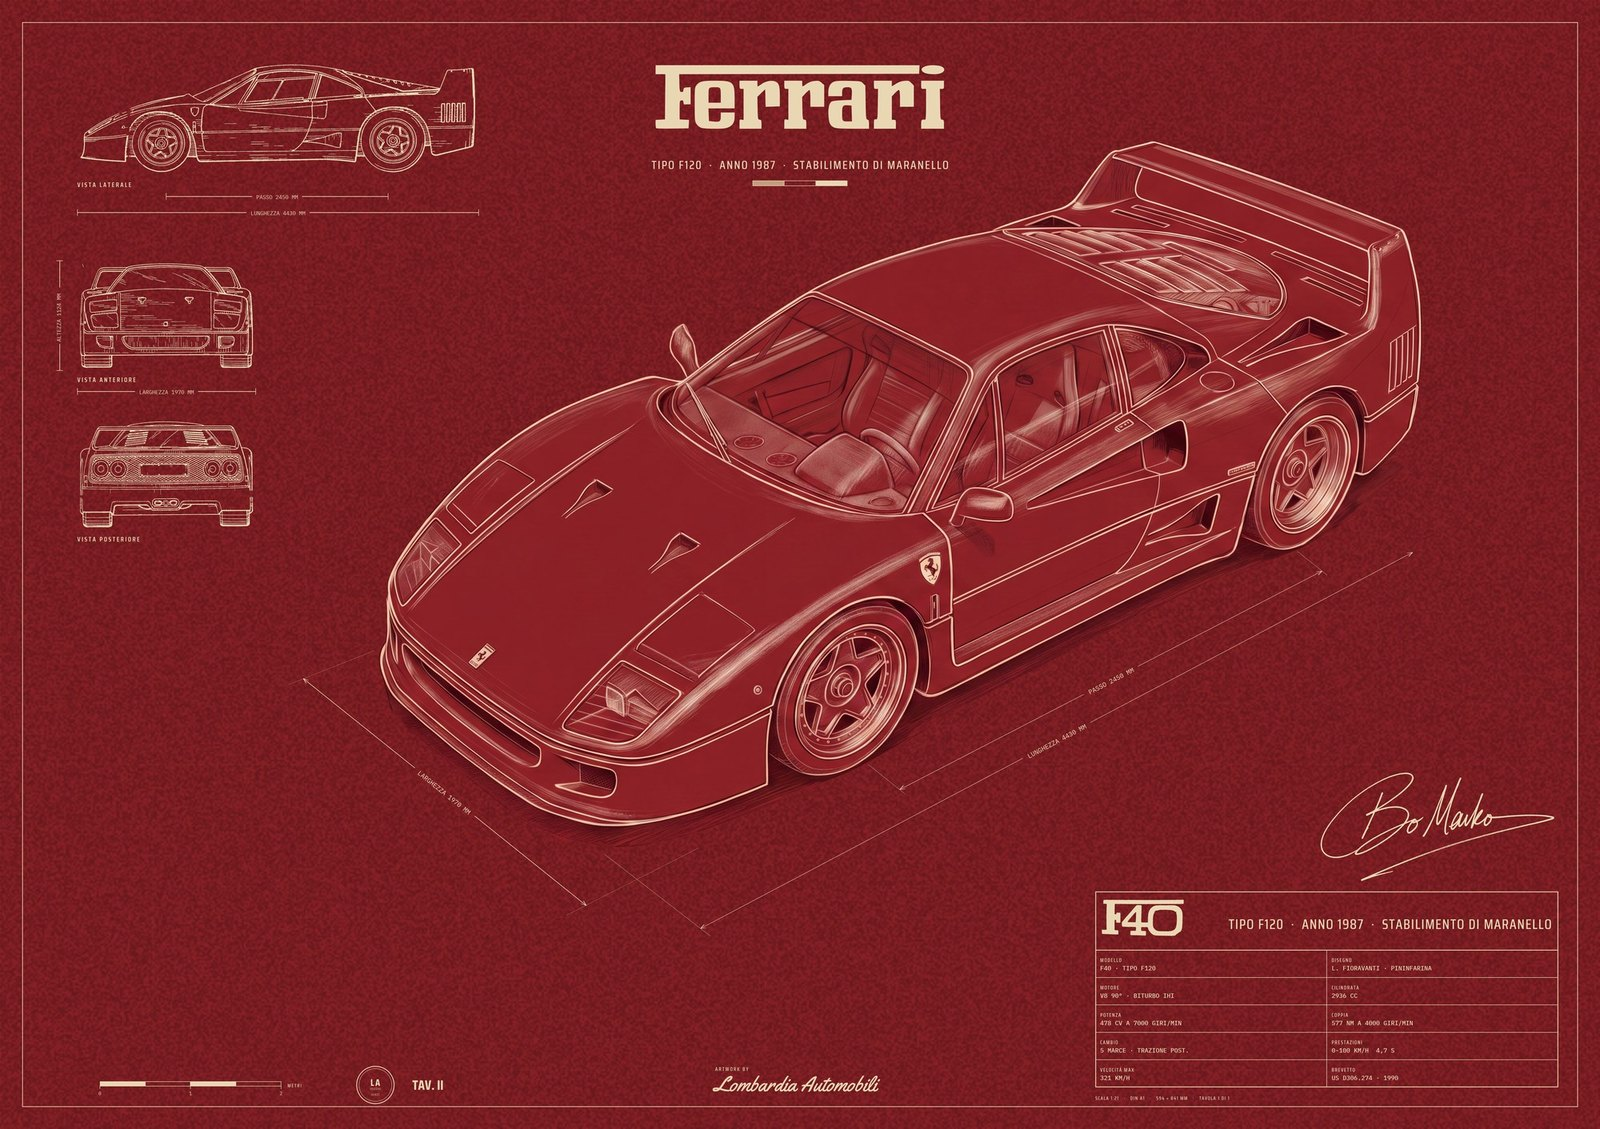
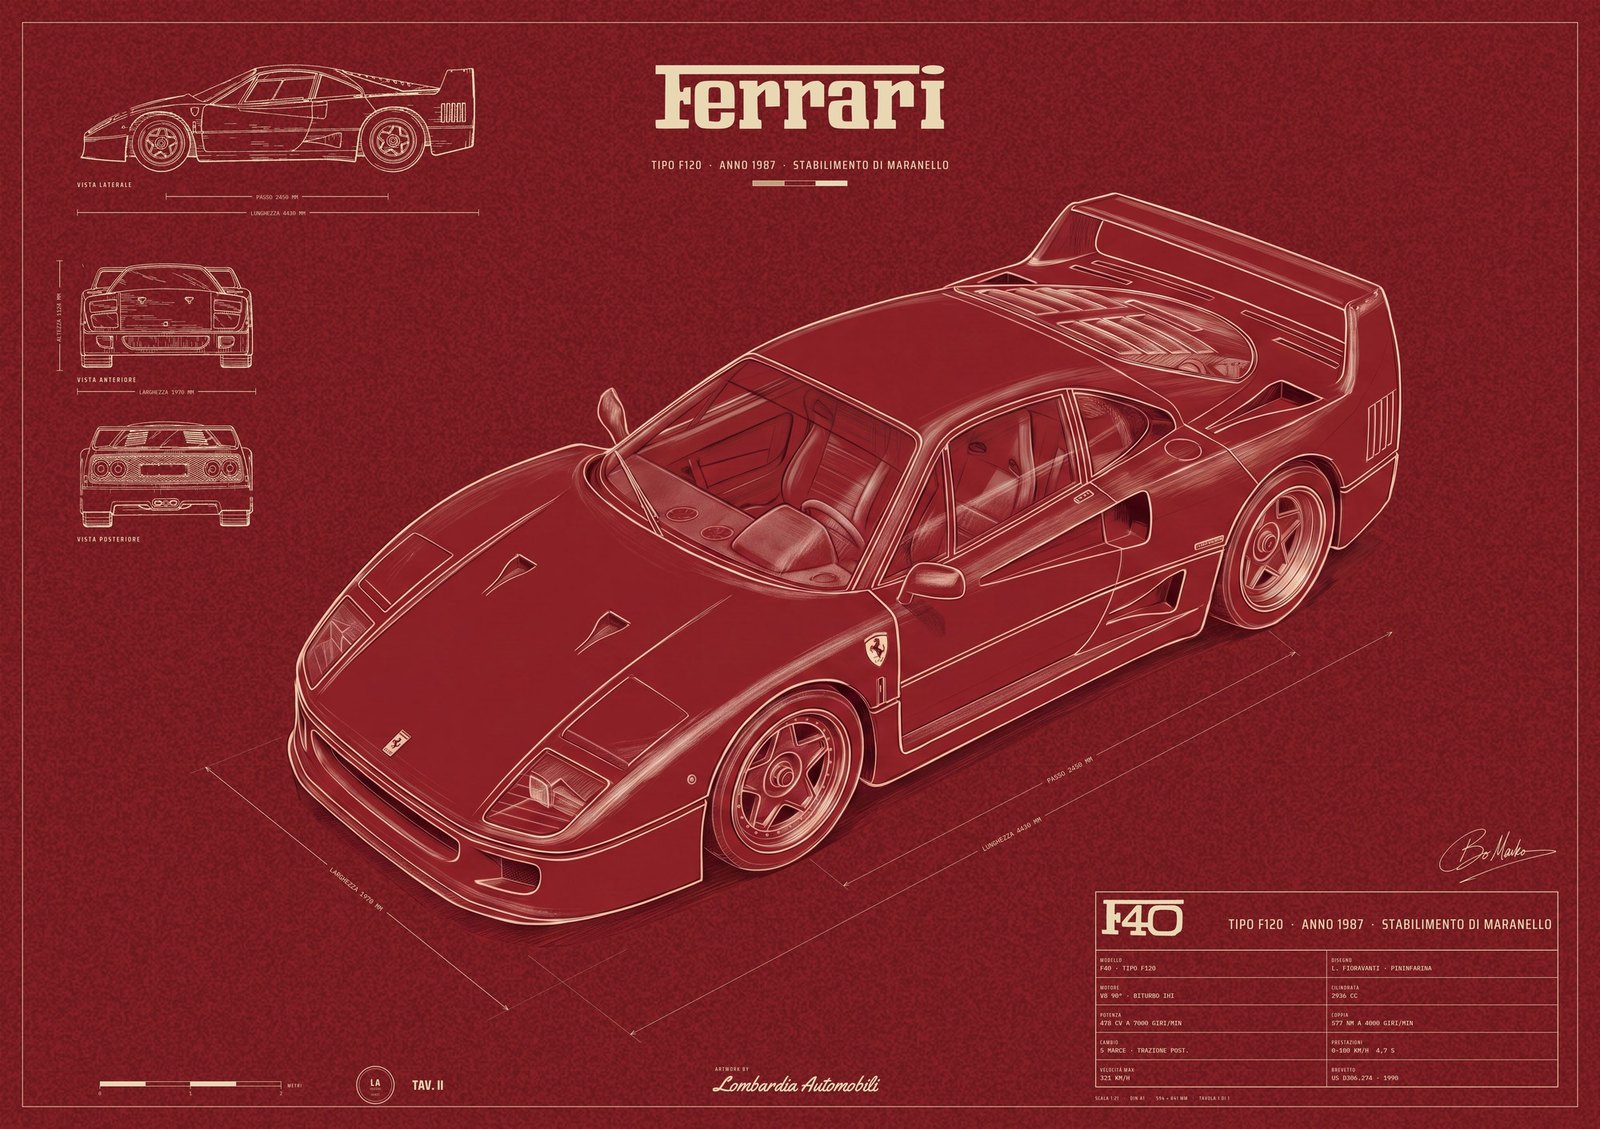
Publish the lot board

Changed region(s): [[0.1562, 0.124, 0.9062, 0.837], [0.8438, 0.682, 0.9688, 0.775]]

diff --git a/house/index.html b/house/index.html
@@ -20,7 +20,7 @@ a{color:#ffd28a}
 
 <h2 id="poster">The poster</h2>
 <p>Tap a sheet for the full 9933 x 7016 file. Only the car is generated; every line, figure, letter and rule is drawn. Checks under each sheet are measured, not eyeballed.</p>
-<figure><a href="img/f40-ossido-landscape-A1.jpg?v=1788463601"><img src="img/f40-ossido-landscape.jpg?v=1788463601" alt="f40-ossido-landscape"></a><figcaption>THE SHEET · Round 5 B (nano-banana-2-edit, 8 references): car regenerated alone on the ground, drawn apparatus; Ferrari wordmark centred, F40 lettering in the spec box, TAV and LA above it · <a href="img/f40-ossido-landscape-A1.jpg?v=1788463601">full A1 file</a></figcaption><table class="chk"><tr><td>size</td><td>9933 x 7016</td><td class="ok">pass</td></tr><tr><td>ratio</td><td>1.4158</td><td class="ok">pass</td></tr><tr><td>edge white % (t/b/l/r)</td><td>0.0 / 0.0 / 0.0 / 0.0</td><td class="ok">pass</td></tr><tr><td>edge mean rgb (top)</td><td>[120, 28, 33]</td><td class="ok">pass</td></tr><tr><td>car box vs source, % of sheet</td><td>x0 0.0 · y0 0.21 · x1 0.0 · y1 -0.21 · IoU 0.9932</td><td class="ok">pass</td></tr><tr><td>ground sampled from render</td><td>[139, 33, 39]</td><td class="ok">pass</td></tr><tr><td>library used</td><td>{&quot;wordmark&quot;: &quot;ferrari-wordmark-mask-4k.png&quot;, &quot;model_asset&quot;: &quot;f40-model-mask.png&quot;, &quot;model_h&quot;: &quot;253&quot;, &quot;_library_entry&quot;: &quot;Ferrari&quot;}</td><td class="ok">pass</td></tr></table></figure>
+<figure><a href="img/f40-ossido-landscape-A1.jpg?v=1788463772"><img src="img/f40-ossido-landscape.jpg?v=1788463772" alt="f40-ossido-landscape"></a><figcaption>THE SHEET · Round 5 B (nano-banana-2-edit, 8 references): car regenerated alone on the ground, drawn apparatus; Ferrari wordmark centred, F40 lettering in the spec box, TAV and LA above it · <a href="img/f40-ossido-landscape-A1.jpg?v=1788463772">full A1 file</a></figcaption><table class="chk"><tr><td>size</td><td>9933 x 7016</td><td class="ok">pass</td></tr><tr><td>ratio</td><td>1.4158</td><td class="ok">pass</td></tr><tr><td>edge white % (t/b/l/r)</td><td>0.0 / 0.0 / 0.0 / 0.0</td><td class="ok">pass</td></tr><tr><td>edge mean rgb (top)</td><td>[120, 28, 33]</td><td class="ok">pass</td></tr><tr><td>car box vs source, % of sheet</td><td>x0 0.0 · y0 0.23 · x1 0.0 · y1 -0.23 · IoU 0.9933</td><td class="ok">pass</td></tr><tr><td>ground sampled from render</td><td>[139, 33, 39]</td><td class="ok">pass</td></tr><tr><td>library used</td><td>{&quot;wordmark&quot;: &quot;ferrari-wordmark-mask-4k.png&quot;, &quot;model_asset&quot;: &quot;f40-model-mask.png&quot;, &quot;model_h&quot;: &quot;253&quot;, &quot;_library_entry&quot;: &quot;Ferrari&quot;}</td><td class="ok">pass</td></tr></table></figure>
 
 <h2 id="sign">Signatures · Bo Marko</h2>
 <p>Generated signatures (nano-banana-pro, 2k), thresholded to ink on the ossido ground. Pick a number.</p>
